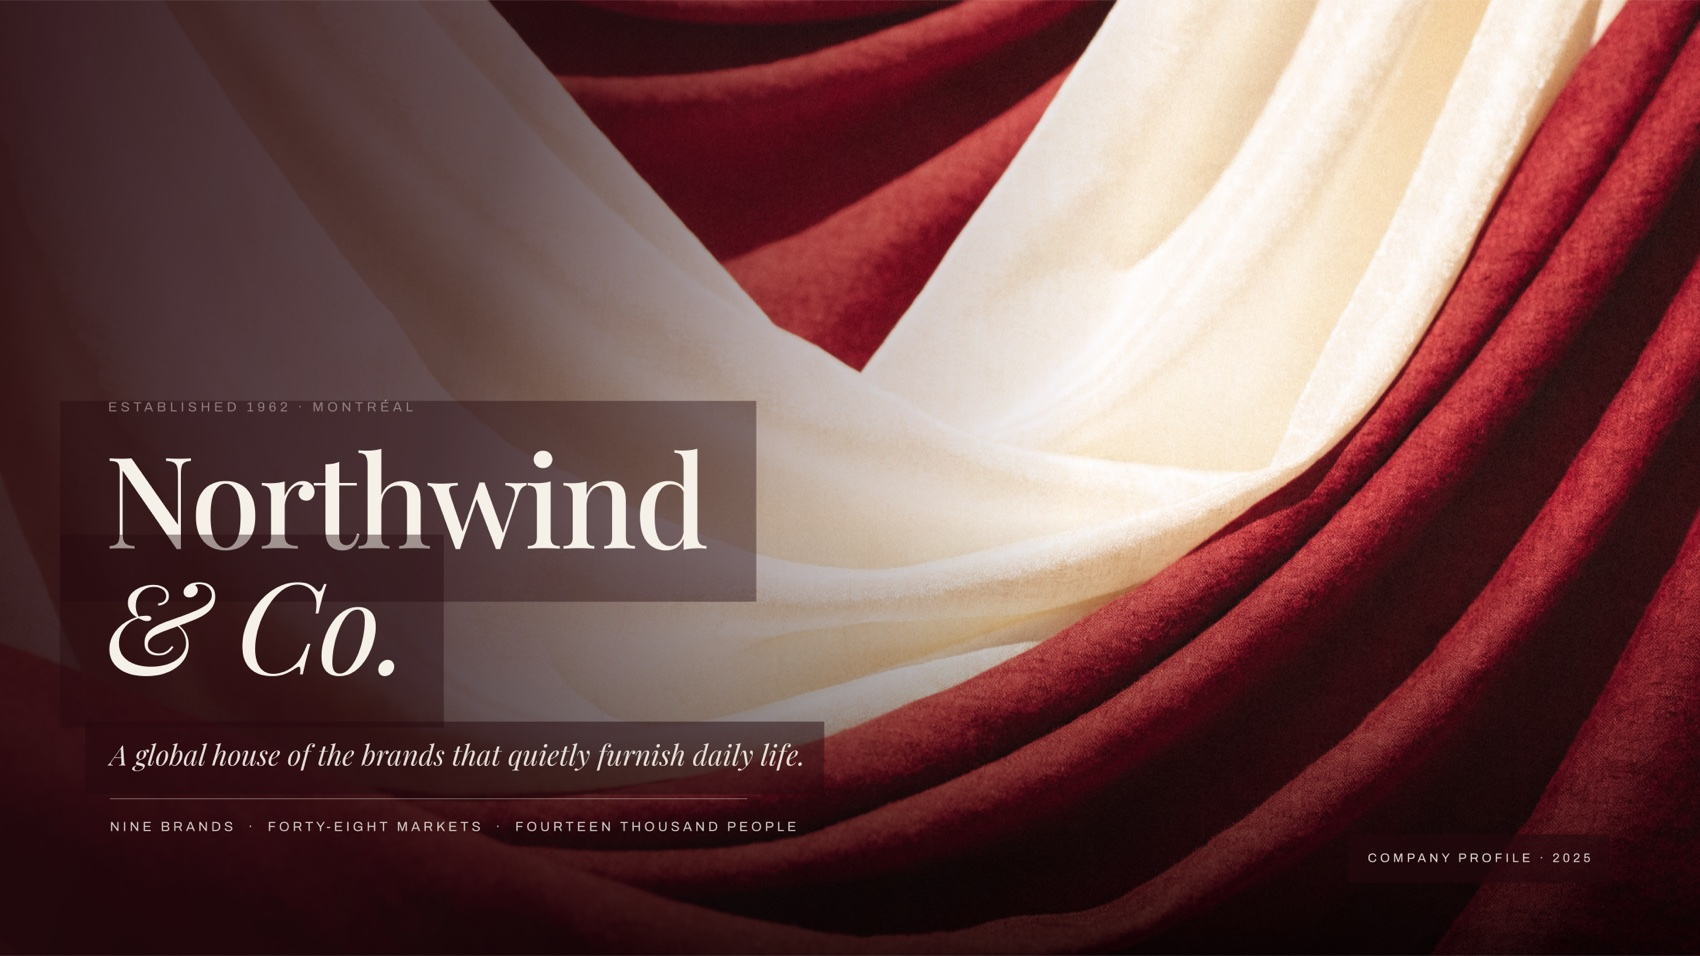
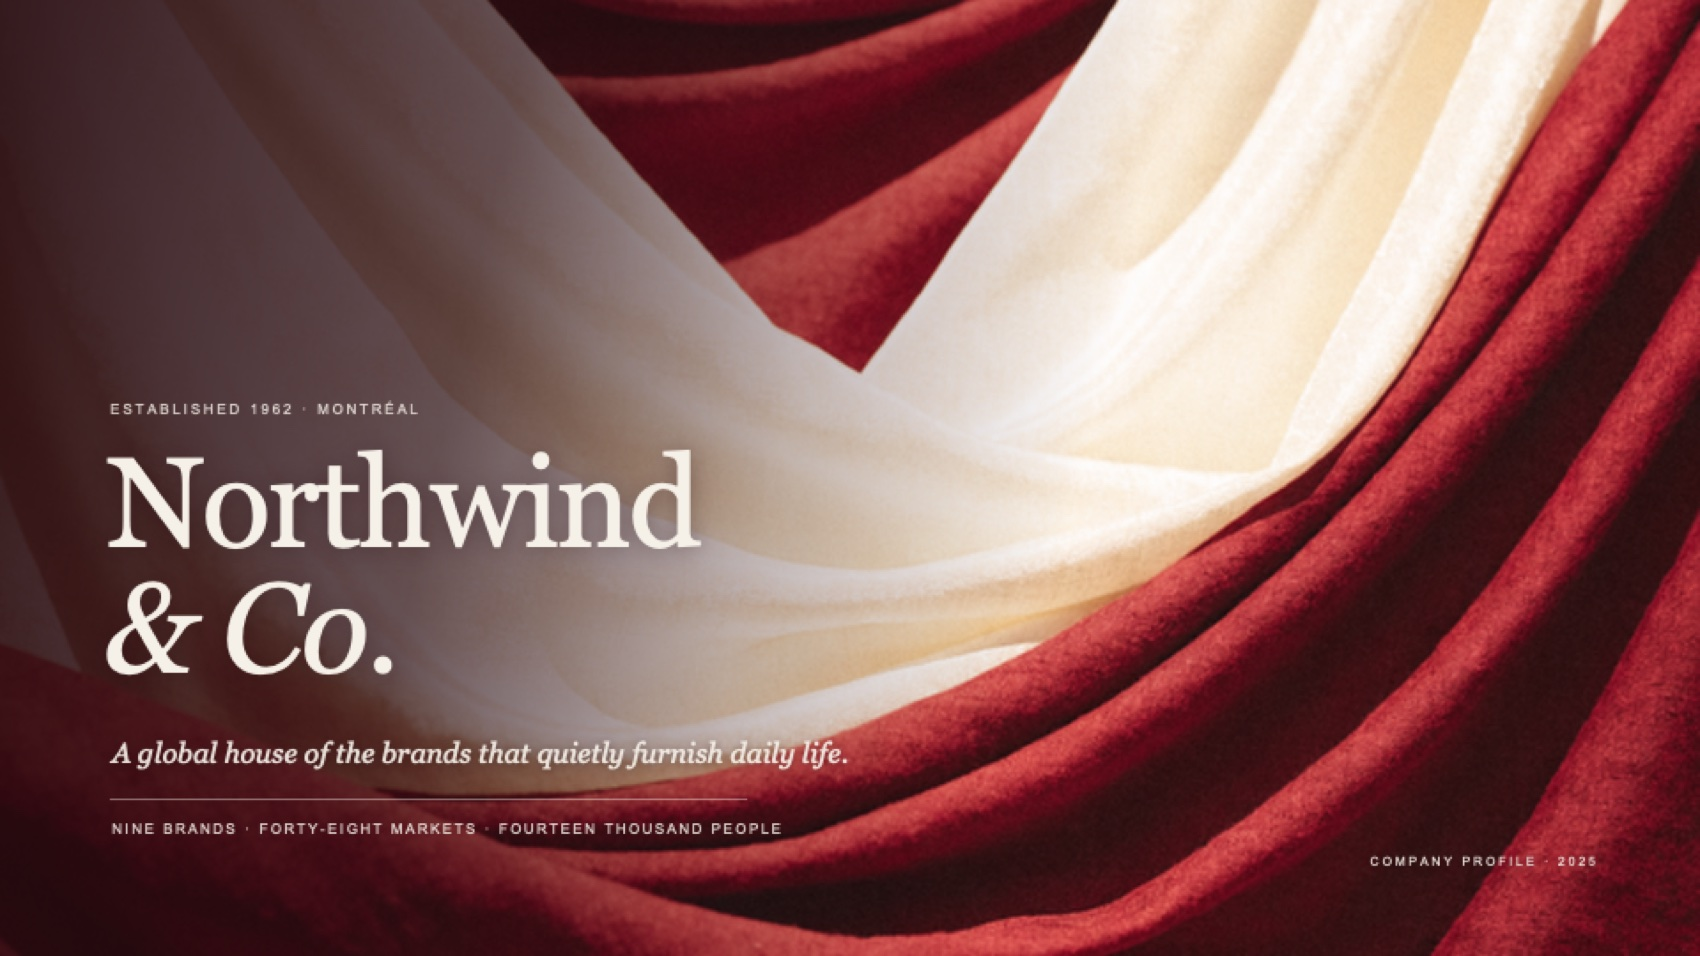
Northwind: clean titled cover; Axion: remove gallery images

diff --git a/axion.html b/axion.html
@@ -85,10 +85,6 @@
       <div class="p"><div class="n">02</div><h4>Stat as hero</h4><p>$260K, −38%, 6-month payback — the proof points are the largest things on the page.</p></div>
       <div class="p"><div class="n">03</div><h4>One CTA moment</h4><p>A single charcoal slide closes the pitch: "Start a 30-day pilot."</p></div>
     </div>
-    <div class="shots">
-      <div class="s"><img loading="lazy" decoding="async" src="assets/axion2-concrete-a.png" alt="Concrete &amp; steel texture study" /></div>
-      <div class="s"><img loading="lazy" decoding="async" src="assets/axion2-concrete-b.png" alt="Raw concrete study" /></div>
-    </div>
   </div>
 </section>
 

diff --git a/northwind.html b/northwind.html
@@ -37,7 +37,7 @@
     <div class="eye">Consumer goods · Company profile</div>
     <h1>Northwind &amp; Co.</h1>
     <p class="tagline">A company profile for a consumer-goods house. It reads like a fashion magazine: ivory, deep red, a sharp serif.</p>
-    <div class="shot-full"><img loading="lazy" decoding="async" src="assets/northwind-art.png" alt="Northwind &amp; Co. cover" /></div>
+    <div class="shot-full"><img loading="lazy" decoding="async" src="assets/northwind-cover.png" alt="Northwind — cover slide" /></div>
     <div class="meta-strip">
       <div class="m"><div class="l">Client</div><div class="v">Northwind &amp; Co. (illustrative)</div></div>
       <div class="m"><div class="l">Sector</div><div class="v">Consumer goods</div></div>